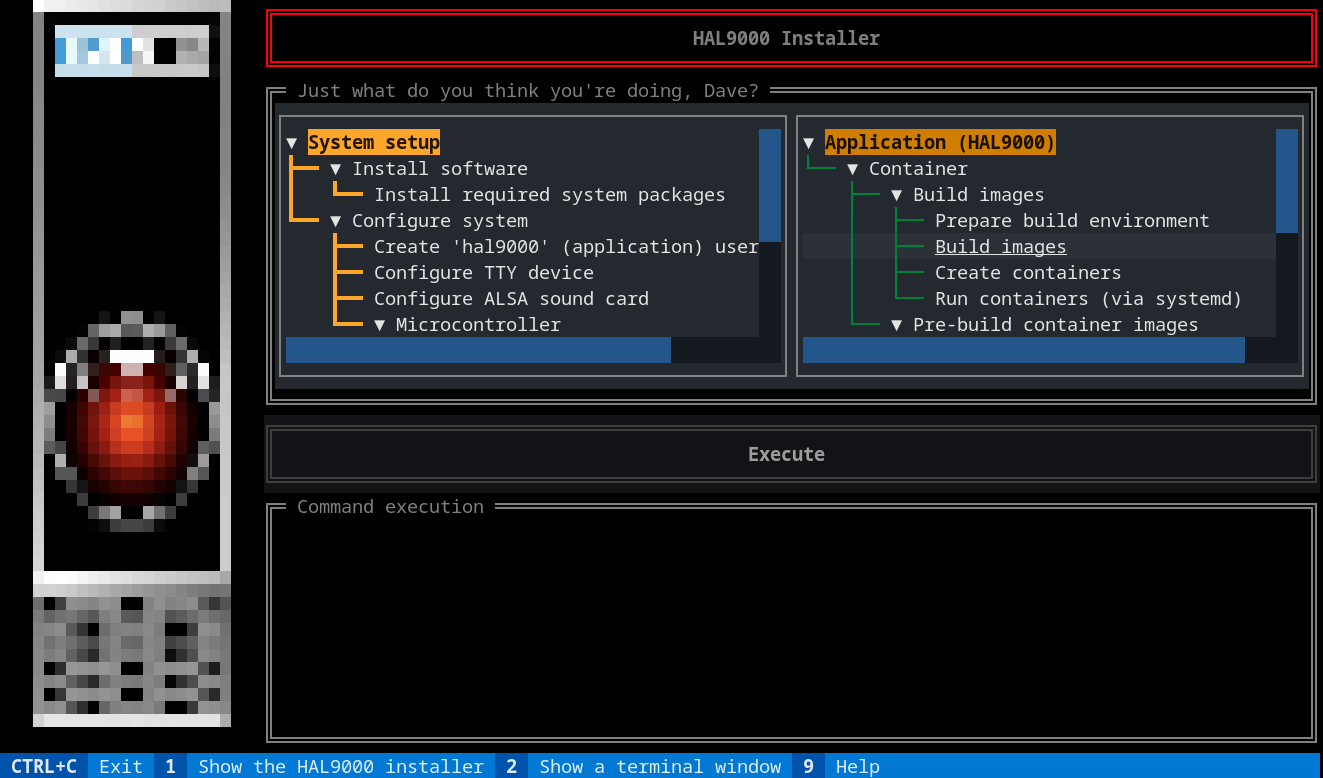
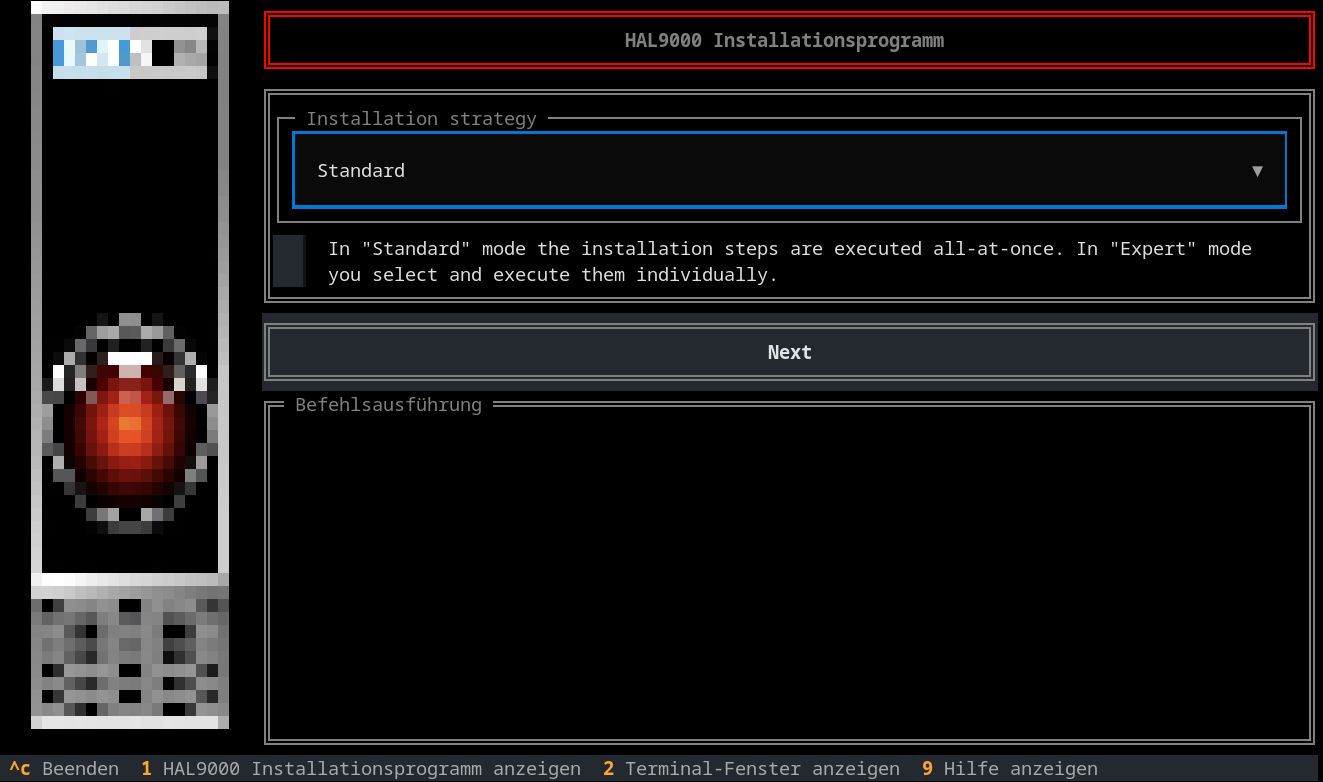
Updated READMEs with respect to 'standard' installation mode

diff --git a/README_en.md b/README_en.md
@@ -26,21 +26,20 @@ Exiting the installer-application is done using CTRL-c (or by clicking on the la
 
 The Installer screen is used to both install required software and configure the system for running the
 HAL9000 application (which runs in containers). The screen is composed of three elements:
-- Action selector (which actually has two selectors)
-- Execute button
+- Dialog area
+- Action button
 - Execution window
 
-To execute (parts of the) installation process, you select a desired installation (sub-)step in the action
-selector (well, either in the system or the application area). When pressing enter (or clicking the
-execute-button), the selected installation step(s) are executed in the execution window; depending on the
-system state and the executed actions, user input might be required (like entering a password for sudo).
-The executed actions can be aborted by clicking the execute button (which is actually an abort-button while
-an installer action is being executed).
+In the first steps of the installation process, some choices regarding the installation are presented:
+- Strategy: "Standard" or "Expert" ("Standard" is recommended because it does everything automatically)
+- Sourcing: Whether to download pre-build images or to compile them during the installation
+- Version: Which version to download/compile, 'stable' and 'development' are currently supported
+- Soundcard: Which soundcard to use (for a Raspberry Zero2W, a driver for the Respeaker 2-mic will be installed)
+- Arduino: Which (of the supported) Arduino board is attached (or "None" for exclusive use of the HTTP frontend)
 
-In the most convinient case, one can select (execute) the top-most item in the action selector areas. In
-order to allow for a more fine-grained user-control, most of the sub-elements in the action selectors can
-be executed individually. Please note that all sub-elements of the selected element are also queued for
-execution (thus: activating a top-most element executes 'everything').
+After that (in "Standard" mode) a list of the derived installation are presented in the dialog area and the
+action button can be used to start the installation process. The execution of the installation steps will be
+shown in the execution window while completed installation steps are marked accordingly in the dialog area.
 
 ## Terminal screen
 ![Screenshot: Terminal screen](resources/images/screen_terminal.png)
@@ -56,8 +55,8 @@ Well, if you're reading this from within the installer-application...you're look
 ## FAQ
 **Question:** Why (not simply a shell script)?  
 **Answer:** Because...I liked the idea (and it took only a few hours to implement). If you really want plain
-shell scripts, just run those under the 'resources/scripts/' folder in this repository (in the end, that's
-almost everything this installer-application does).
+shell scripts, just run those under the 'resources/installation-scripts/' folder in this repository (in the end,
+that's almost everything this installer-application does).
 
 **Question:** The shortcuts (the keys '1', '2' and '9') for switching the screen aren't working, what's wrong?  
 **Answer:** Most likely, the focus is inside a (simulated) terminal window (the execution-window on the

diff --git a/README_de.md b/README_de.md
@@ -28,27 +28,25 @@ Das Beenden des Installationsprogramms erfolgt über STRG-C (oder per Maus-Klick
 Die Bildschirmseite 'Installation' wird genutzt um das System auf die Ausführung der HAL9000-Anwendung
 (die in Containern erfolgt) vorzubereiten, z.B. Software-Pakete installieren und System-Konfigurationen
 vornehmen. Die Bildschirmseite besteht aus drei Elementen:
-- Aktionsauswahl (mit zwei Auswahlbereichen)
-- Ausführen Schaltfläche
+- Interaktionsbereich
+- Schaltfläche ("button")
 - Ausführungsfenster
 
-Um (Teile des) Installationsprozesses auszuführen, wird ein gewünschter Installations(teil)schritt in der
-Aktionsauswahl (also entweder im System- oder im Anwendungsbereich) selektiert und durch Drücken der
-Eingabetaste (oder durch Anklicken der Ausführen-Schaltfläche) werden die ausgewählten Installationsschritte
-im Ausführungsfenster ausgeführt; je nach Systemzustand und den ausgeführten Aktionen kann eine
-Benutzereingabe erforderlich sein (z.B. die Eingabe eines Passworts für sudo). Die ausgeführten Aktionen
-können abgebrochen werden, indem man auf die Schaltfläche 'Ausführen' klickt (die eigentlich eine
-Abbruch-Schaltfläche ist, während eine Installer-Aktion ausgeführt wird).
+Im ersten Schritt müssend ein paar Auswahlmöglichkeiten beantwortet werden:
+- Strategie: "Standard" oder "Experte" ("Standard" wird empfohlen, da die eigentliche Installation dann
+voll-automatisch erfolgt)
+- Binärdateien: Ob vor-kompilierte Dateien ("images") heruntergeladen werden sollen oder (als Teil der
+Installation) kompiliert werden sollen
+- Version: Welcher Versionsstand genutzt werden soll (aktuell nur 'Stable' oder 'Development')
+- Soundkarte: Welche Soundkarte genutzt werden soll (auf einem Raspberry Zero2W wird ein Treiber für den
+Respeaker 2-mic mit installiert)
+- Arduino: Welches (der unterstützten) Arduino-Boards wird eingesetzt (oder "None" zur exklusiven Nutzung
+des HTTP-Frontends)
 
-Im einfachsten Fall kann man das oberste Element in den Aktionsauswahlbereichen auswählen/ausführen. Um eine
-feinere Steuerung zu ermöglichen, können die meisten Unterelemente in den Aktionsauswahlen einzeln ausgeführt
-werden. Hinweis: Alle Unterelemente des ausgewählten Elements werden ebenfalls zur Ausführung vorgesehen (d.h. 
-die Aktivierung eines obersten Elements führt "alles" darunter aus).
-
-Um (Teile des) Installationsprozesses auszuführen, einfach den gewünschten Installations(teil)schritt in der
-Aktionsauswahl (also entweder im System- oder im Anwendungsbereich) auswählen. Durch Drücken der Eingabetaste 
-(oder durch Anklicken der Ausführen-Schaltfläche) werden diese Installationsschritte im Ausführungsfenster 
-ausgeführt.
+Danach (im "Standard" Modus) wird die berechnete Liste der Installationsschritte dargestellt und über die
+Schaltfläche ("button") kann die Installation gestartet werden. Die Ausführung der Schritte wird im
+Ausführungsfenster angezeigt, während im Interaktionsbereich die Liste der Installationsschritte entsprechend
+des Fortschritts aktualisiert wird.
 
 ## Bildschirmseite: Terminal
 ![Screenshot: Terminal screen](resources/images/screen_terminal.png)
